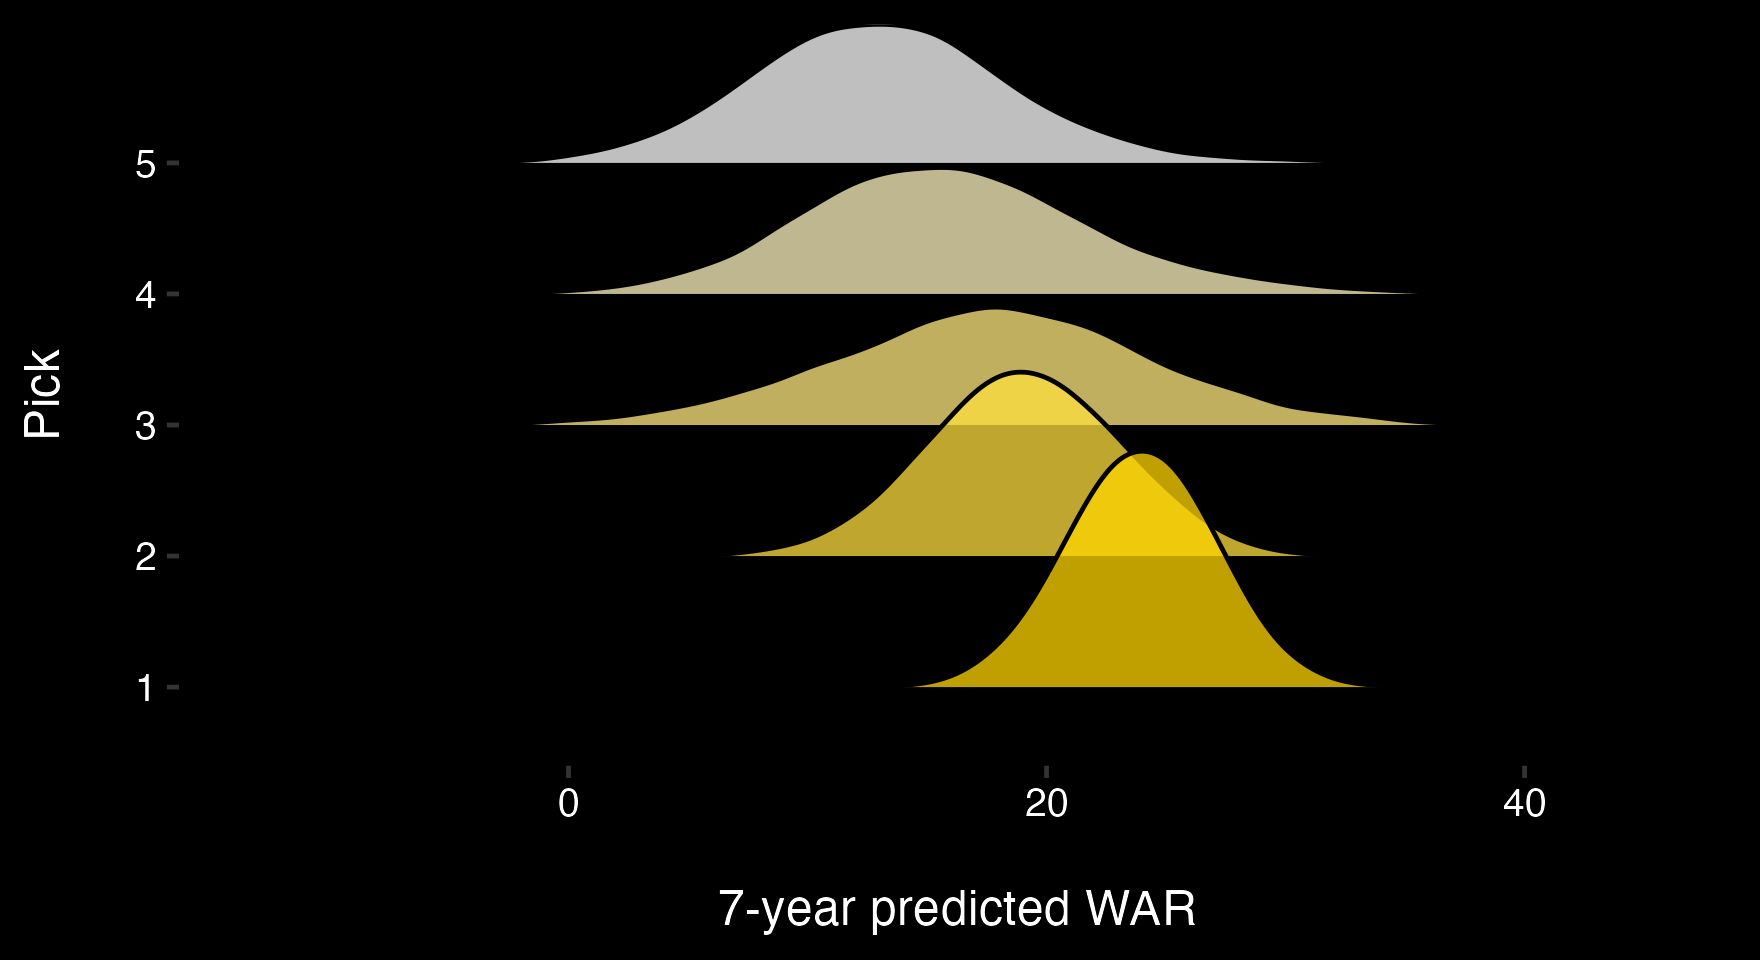
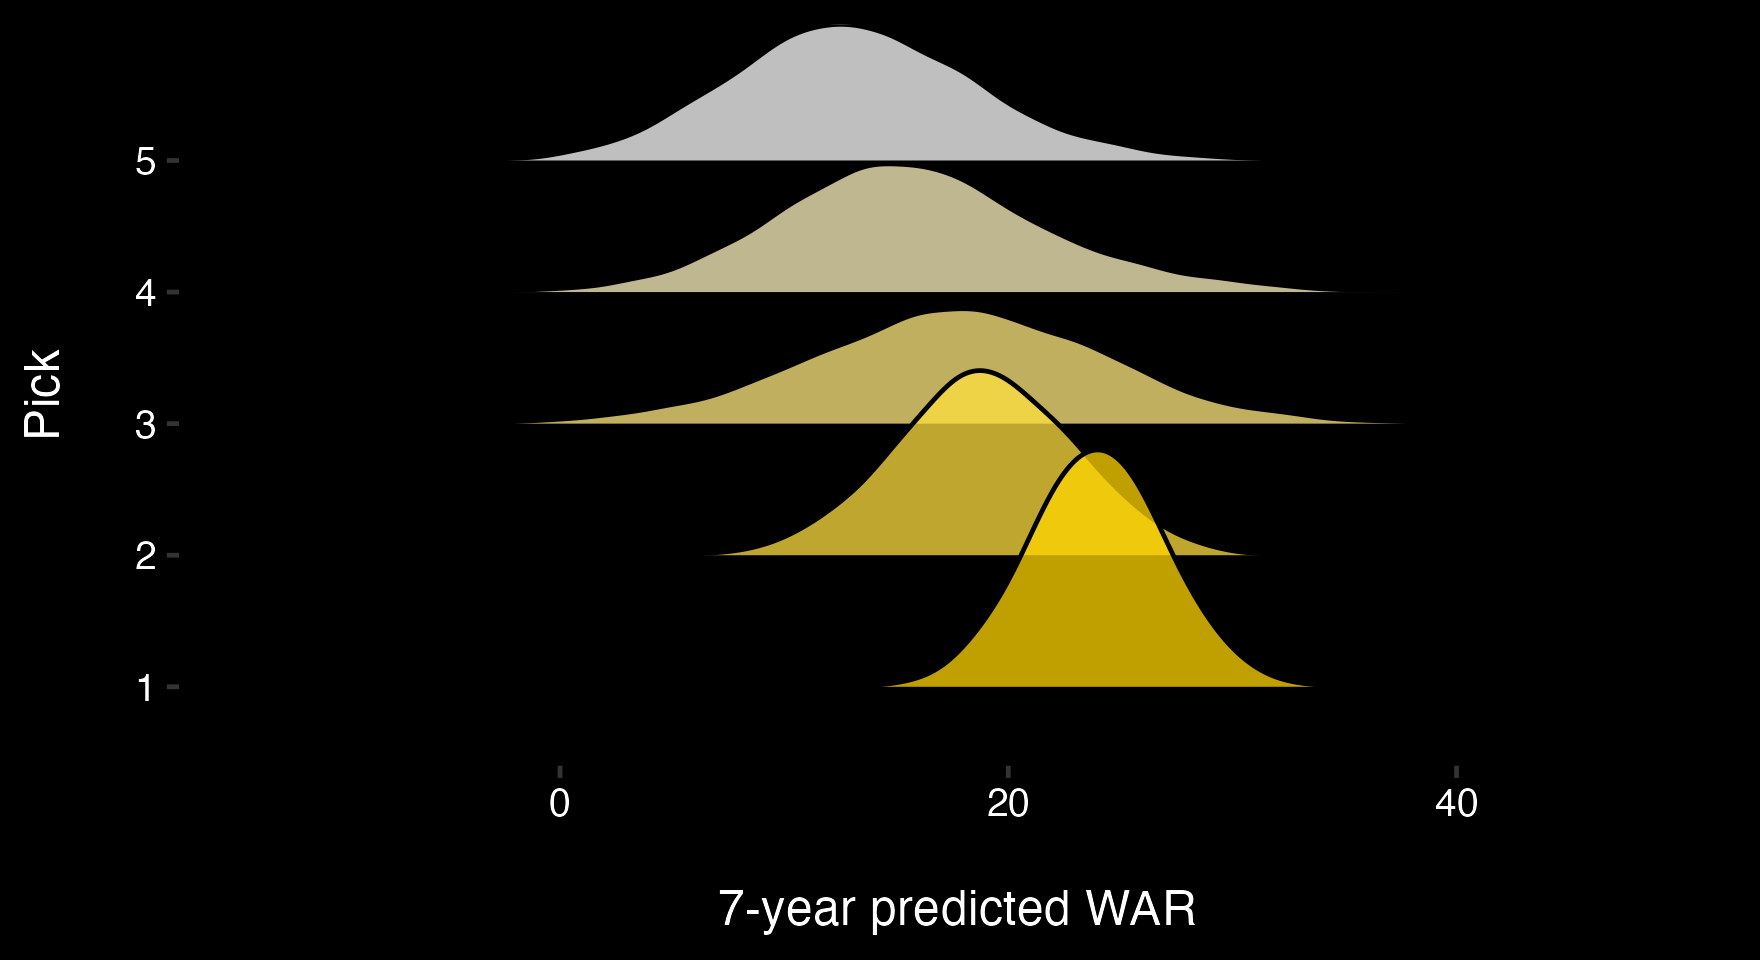
big changes

diff --git a/_posts/2023-07-02-draft-probabilities-4.md b/_posts/2023-07-02-draft-probabilities-4.md
@@ -1,7 +1,7 @@
 ---
 layout: post
-title:  "NHL Draft: Enhancing the Draft Pick Value Framework"
-date:   2023-07-05 12:00:00 -0400
+title:  "NHL Draft: An Application of Prospect Pick Probabilities [Part 2]"
+date:   2023-07-02 12:00:00 -0400
 ---
 <head>
 <!-- Google tag (gtag.js) -->
@@ -14,9 +14,9 @@ date:   2023-07-05 12:00:00 -0400
   gtag('config', 'G-DGRHZS5DNM');
 </script>
 </head>
-<h2>Enhancing the Draft Pick Value Framework</h2>
+<h2>An Application of Prospect Pick Probabilities [Part 2]</h2>
 <p>
-In <a href="https://spazznolo.github.io/2023/06/20/draft-probabilities-3.html">An Application of Prospect Pick Probabilities</a>, I introduced a new perspective on draft pick value using Prashanth Iyer and I's <a href="https://piyer97.shinyapps.io/NHLDraft2023/">draft probability tool</a>. Here, I extend the methodology to include prospect value uncertainty. Then I build a framework to optimize pick value.
+In <a href="https://spazznolo.github.io/2023/06/20/draft-probabilities-3.html">An Application of Prospect Pick Probabilities</a>, I introduced a new perspective on draft pick value using Prashanth Iyer and I's <a href="https://piyer97.shinyapps.io/NHLDraft2023/">draft probability tool</a>. Here, I extend the methodology to include prospect value uncertainty.
 </p>
 <p>
 <h5>Accounting for Uncertainty</h5>
@@ -48,10 +48,7 @@ In this example:
 Like the point estimates in the first post, the actual distribution doesn't matter, it's just an example to illustrate the framework I'm introducing.
 </p>
 <p>
-Let's assign these value distributions to each player, making sure Michkov's value has higher uncertainty by increasing the standard deviation of his distribution.
-</p>
-<p>
-Prospect values now look like this:
+Let's assign these value distributions to each player, making sure Michkov's value has higher uncertainty by increasing the standard deviation of his distribution. Prospect values now look like this:
 </p>
 <p>
 <div style="text-align: center"> <img src="https://spazznolo.github.io/figs/draft-probabilities-4-2.png" width="60%" length="150"/></div>
@@ -63,27 +60,13 @@ Then, these probability distributions are multiplied by the probability a prospe
 <div style="text-align: center"> <img src="https://spazznolo.github.io/figs/draft-probabilities-4-3.png" width="60%" length="150"/></div>
 </p>
 <p>
-The probability distributions offer some bonuses:
-  - there is now a difference between the mean and median WAR.
-  - we can now estimate the probability that a given pick will be more valuable than another.
-  - higher certainty player cause pick values to shift towards them.
+With these pick value distributions you get the same comparisons as you did in the previous post, plus:
+  - the probability that a given pick will be more valuable than another.
+  - WAR for whichever "outcome" you're interested in (like top 10% scenario, bottom 10%, etc.)
 </p>
 <p>
-<h5>Optimization</h5>
-The optimization of draft value in the NHL is similar to that of a fantasy draft for a sportsbook (include link to roster optimization), and has been explored specifically for the NHL <a href="http://statsportsconsulting.com/main/wp-content/uploads/Nandakumar_PerfectDraft-1.pdf">here</a>. In this section, I'll optimize draft value by combining the new pick values with the prospect value distributions assigned above.
-</p>
-To illustrate
-<p>
+Let's re-visit the Montreal example where I suggested they should only trade up if the value of the fourth pick (15.610) exceeded that of their package (fifth pick (11.927) plus a piece). After including uncertainty, these point estimates become probability distributions. The difference between the two picks looks like this:
 </p>
 <p>
-</p>
-<p>
-</p>
-<p>
-</p>
-<p>
-</p>
-<p>
-</p>
-<p>
+<div style="text-align: center"> <img src="https://spazznolo.github.io/figs/draft-probabilities-4-4.png" width="60%" length="150"/></div>
 </p>

diff --git a/home.md b/home.md
@@ -20,7 +20,7 @@ permalink: /
 This blog serves as an outlet to explore ideas which naturally interest me. I try to keep an informal, back-of-the-napkin style to these posts, hopefully a little like <a href = "http://www.tangotiger.com/index.php">Tom Tango</a>. Posts are grouped by topic in the header, but can be accessed in chronological order below.
 <p>
 <h5>Current independent work</h5>
-I'm helping <a href = "https://twitter.com/iyer_prashanth">Prashanth Iyer</a> build an <a href="https://piyer97.shinyapps.io/NHLDraft2023/">interactive NHL draft tool</a> by applying a rank-ordered logit model to professional draft rankings. An outline of the methodology can be found on the "About the Model" tab of the tool, or <a href="https://spazznolo.github.io/2023/06/16/draft-probabilities-2.html">here</a>. I <a href="https://spazznolo.github.io/2023/06/20/draft-probabilities-3.html">posted</a> a potential application of the model. I will extend it soon.
+I'm helping <a href = "https://twitter.com/iyer_prashanth">Prashanth Iyer</a> build an <a href="https://piyer97.shinyapps.io/NHLDraft2023/">interactive NHL draft tool</a> by applying a rank-ordered logit model to professional draft rankings. An outline of the methodology can be found on the "About the Model" tab of the tool, or <a href="https://spazznolo.github.io/2023/06/16/draft-probabilities-2.html">here</a>. I <a href="https://spazznolo.github.io/2023/06/20/draft-probabilities-3.html">posted</a> about a potential application of the model. I will extend it soon.
 </p>
 <p>
 I'm building a <a href="https://spazznolo.github.io/2023/01/15/tennis-framework.html">tennis tracking program</a>, which hopefully will scale to the level where entities (players and ball) can be tracked for entire tournaments. Such a database could <a href = "https://hdsr.mitpress.mit.edu/pub/uy0zl4i1/release/4">prove useful</a> for researchers and players alike, pushing the sport forward.

diff --git a/_posts/2023-07-03-draft-probabilities-5.md b/_posts/2023-07-03-draft-probabilities-5.md
@@ -1,0 +1,22 @@
+---
+layout: post
+title:  "NHL Draft: Introducing a new draft pick value framework"
+date:   2023-07-05 12:00:00 -0400
+---
+<head>
+<!-- Google tag (gtag.js) -->
+<script async src="https://www.googletagmanager.com/gtag/js?id=G-DGRHZS5DNM"></script>
+<script>
+  window.dataLayer = window.dataLayer || [];
+  function gtag(){dataLayer.push(arguments);}
+  gtag('js', new Date());
+
+  gtag('config', 'G-DGRHZS5DNM');
+</script>
+</head>
+<h2>Introducing a new draft pick value framework</h2>
+<p>
+In <a href="https://spazznolo.github.io/2023/06/20/draft-probabilities-3.html">An Application of Prospect Pick Probabilities</a>, I used Prashanth Iyer and I's <a href="https://piyer97.shinyapps.io/NHLDraft2023/">draft probability tool</a> to create a new pick value framework which captured the unique dynamics of a given draft. Then, I <a href="https://spazznolo.github.io/2023/06/25/draft-probabilities-4.html">extended the methodology</a> to include prospect value uncertainty. Here, I leverage the new pick values along with an optimization strategy to introduce a new draft pick value framework.
+</p>
+<p>
+</p>

diff --git a/_posts/2023-06-20-draft-probabilities-3.md b/_posts/2023-06-20-draft-probabilities-3.md
@@ -1,6 +1,6 @@
 ---
 layout: post
-title:  "NHL Draft: An Application of Prospect Pick Probabilities"
+title:  "NHL Draft: An Application of Prospect Pick Probabilities [Part 1]"
 date:   2023-06-20 12:00:00 -0400
 ---
 <head>
@@ -14,7 +14,7 @@ date:   2023-06-20 12:00:00 -0400
   gtag('config', 'G-DGRHZS5DNM');
 </script>
 </head>
-<h2>An Application of Prospect Pick Probabilities</h2>
+<h2>An Application of Prospect Pick Probabilities [Part 1]</h2>
 <p>
 The prospect pick probabilities available on the "Draft Pick Probabilities" tab of the <a href = "https://piyer97.shinyapps.io/NHLDraft2023/">2023 Draft Tool</a>, created by Pranshanth Iyer and myself, can be used by NHL organizations to inform their decision-making process. Let's take the Montreal Canadiens as an example.
 </p>

diff --git a/_posts/2023-06-30-goalie-performance-4.md b/_posts/2023-06-30-goalie-performance-4.md
@@ -1,7 +1,7 @@
 ---
 layout: post
 title:  "Goalie Performance: Exploring the Distribution"
-date:   2023-07-03 12:00:00 -0400
+date:   2023-07-30 12:00:00 -0400
 ---
 <head>
 <!-- Google tag (gtag.js) -->

diff --git a/_posts/2023-06-26-goalie-performance-3.md b/_posts/2023-06-26-goalie-performance-3.md
@@ -1,7 +1,7 @@
 ---
 layout: post
 title:  "Goalie Performance: Adjusting for Age"
-date:   2023-07-05 12:00:00 -0400
+date:   2023-07-30 12:00:00 -0400
 ---
 <head>
 <!-- Google tag (gtag.js) -->

diff --git a/_posts/2023-07-05-draft-probabilities-6.md b/_posts/2023-07-05-draft-probabilities-6.md
@@ -1,7 +1,7 @@
 ---
 layout: post
 title:  "NHL Draft: Post-Draft Analysis"
-date:   2023-07-02 12:00:00 -0400
+date:   2023-07-05 12:00:00 -0400
 ---
 <head>
 <!-- Google tag (gtag.js) -->
